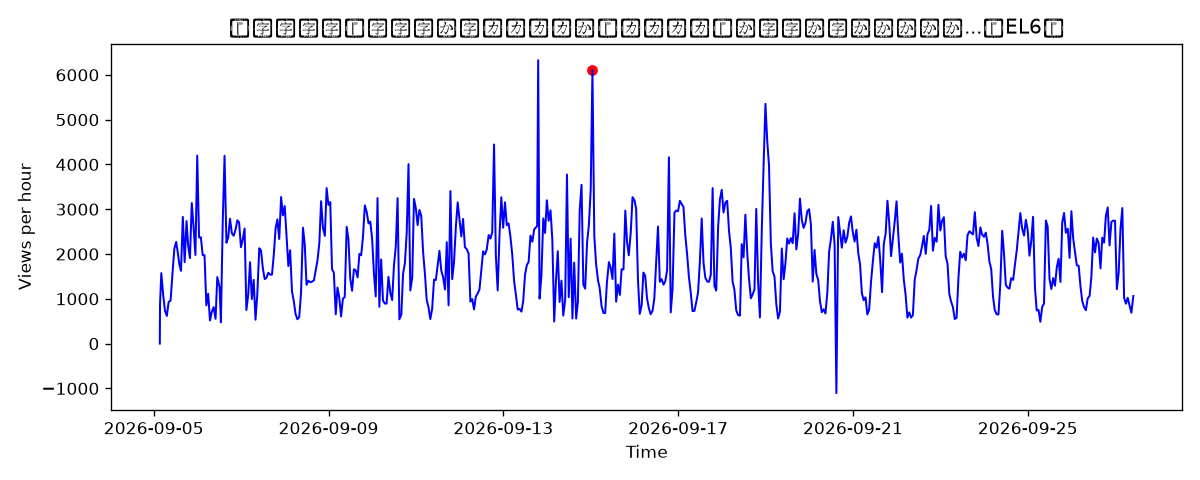
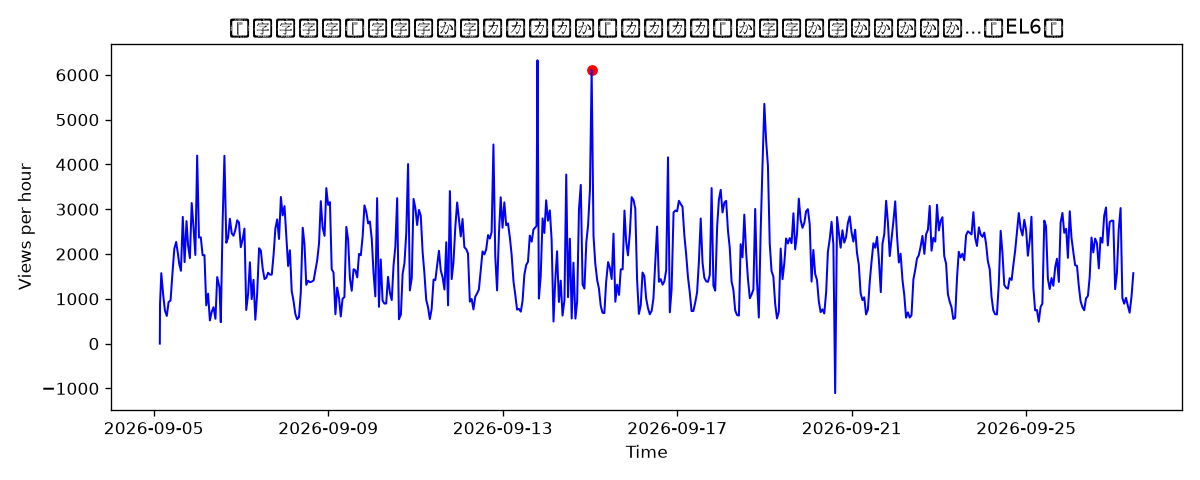
Update processed CSV and analysis report

diff --git a/analysis_report.md b/analysis_report.md
@@ -1,14 +1,14 @@
 # 📊 自動分析レポート
-生成時刻: **2026-09-27 01:01:03.136752**
+生成時刻: **2026-09-27 02:00:04.149214**
 
 ## 🏆 成長速度ランキング
 
 | videoId     |     total_growth |   avg_hourly |   max_spike |
 |:------------|-----------------:|-------------:|------------:|
 | T24rF_x0TmQ |      6.04404e+06 |    11540.6   |     3       |
-| xJQ6KrmdpD0 |      1.016e+06   |     1894.49  |     3.06987 |
-| SnZvS3f5IrA | 349159           |      651.482 |     3       |
-| pRy8kStWlAw | 140454           |      262.028 |     3       |
+| xJQ6KrmdpD0 |      1.01752e+06 |     1893.89  |     3.06987 |
+| SnZvS3f5IrA | 349698           |      651.308 |     3       |
+| pRy8kStWlAw | 140641           |      261.9   |     3       |
 
 
 
